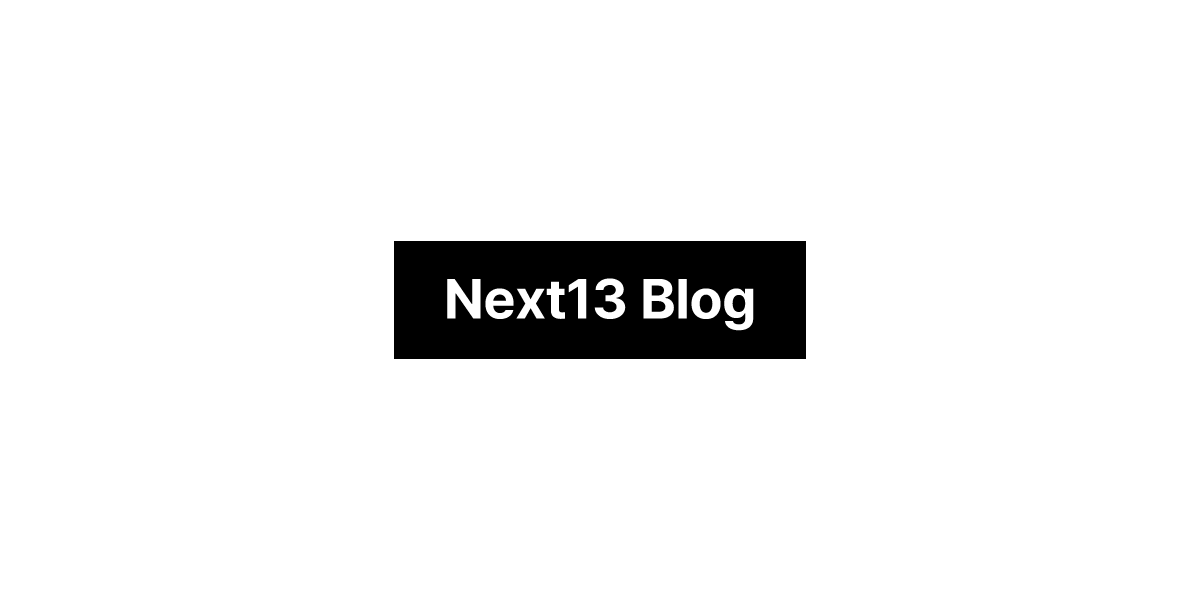
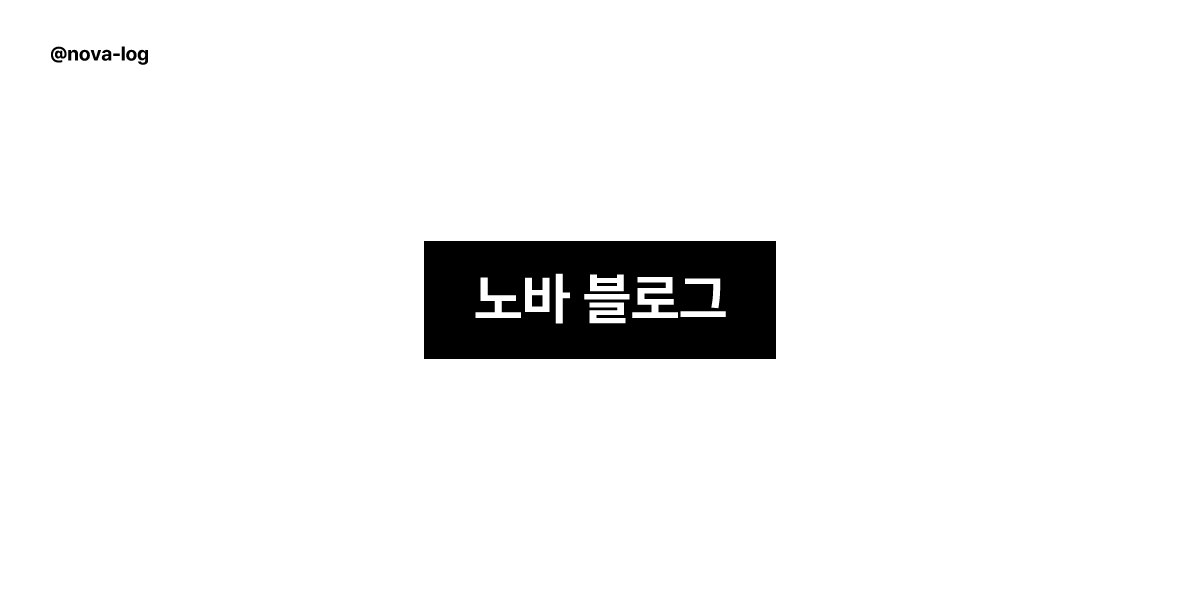
FIX: title 수정

Changed region(s): [[0.3083, 0.39, 0.6783, 0.6], [0.0308, 0.06, 0.1233, 0.12]]

diff --git a/app/layout.tsx b/app/layout.tsx
@@ -1,26 +1,20 @@
 import './globals.css'
 import type { Metadata } from 'next'
-import localFont from 'next/font/local'
 import { ThemeProviders } from "./components/theme-providers"
 import Header from './components/header'
 import Footer from './components/footer'
 
-// const pretendard = localFont({
-//   src: '../public/PretendardVariable.woff2',
-//   display: 'swap',
-// })
-
 export const metadata: Metadata = {
-  title: 'Next13 Blog Starter',
-  description: 'Generated by Nova',
+  title: 'Nova Blog',
+  description: '노바의 개발블로그',
   openGraph: {
-    title: 'Next13 Blog Starter',
-    description: 'Generated by Nova',
-    url: 'https://next13-blog-starter-psi.vercel.app',
-    siteName: 'Next13 Blog Starter',
+    title: 'Nova Blog',
+    description: '노바의 개발블로그',
+    url: 'https://nova-log.vercel.app',
+    siteName: 'Nova ',
     images: [
       {
-        url: 'https://next13-blog-starter-psi.vercel.app/thumbnail.png',
+        url: 'https://nova-log.vercel.app/thumbnail.png',
         width: 800,
         height: 600,
       },

diff --git a/app/components/footer.tsx b/app/components/footer.tsx
@@ -5,17 +5,11 @@ export default function Footer() {
     <footer>
       <div className="mt-16 flex flex-col items-center mb-3">
         <div className="mb-3 flex space-x-4">
-          {/* <SocialIcon kind="mail" href={`mailto:${siteMetadata.email}`} size={6} />
-          <SocialIcon kind="github" href={siteMetadata.github} size={6} />
-          <SocialIcon kind="facebook" href={siteMetadata.facebook} size={6} />
-          <SocialIcon kind="youtube" href={siteMetadata.youtube} size={6} />
-          <SocialIcon kind="linkedin" href={siteMetadata.linkedin} size={6} />
-          <SocialIcon kind="twitter" href={siteMetadata.twitter} size={6} /> */}
         </div>
         <div className="mb-2 flex space-x-2 text-sm text-gray-500 dark:text-gray-400">
           <div>{`© ${new Date().getFullYear()}`}</div>
           <div>{` | `}</div>
-          <Link href="/">Next13 Blog Starter</Link>
+          <Link href="/">노바 블로그</Link>
         </div>
       </div>
     </footer>

diff --git a/app/posts/[slug]/page.tsx b/app/posts/[slug]/page.tsx
@@ -19,11 +19,11 @@ export const generateMetadata = ({ params }: Props) => {
     openGraph: {
       title: post?.title,
       description: post?.summary,
-      url: 'https://next13-blog-starter-psi.vercel.app',
+      url: 'https://nova-log.vercel.app',
       siteName: 'Next13 Blog Starter',
       images: [
         {
-          url: 'https://next13-blog-starter-psi.vercel.app/thumbnail.png',
+          url: 'https://nova-log.vercel.app/thumbnail.png',
           width: 800,
           height: 600,
         },

diff --git a/app/components/header.tsx b/app/components/header.tsx
@@ -5,7 +5,7 @@ export default function Header() {
   return (
     <header className="px-4 py-8 mx-auto max-w-3xl flex justify-between">
       <h1 className="font-bold text-xl">
-        <Link href="/">Next13 Blog Starter</Link>
+        <Link href="/">노바 블로그</Link>
       </h1>
       <ThemeSwitch />
     </header>
